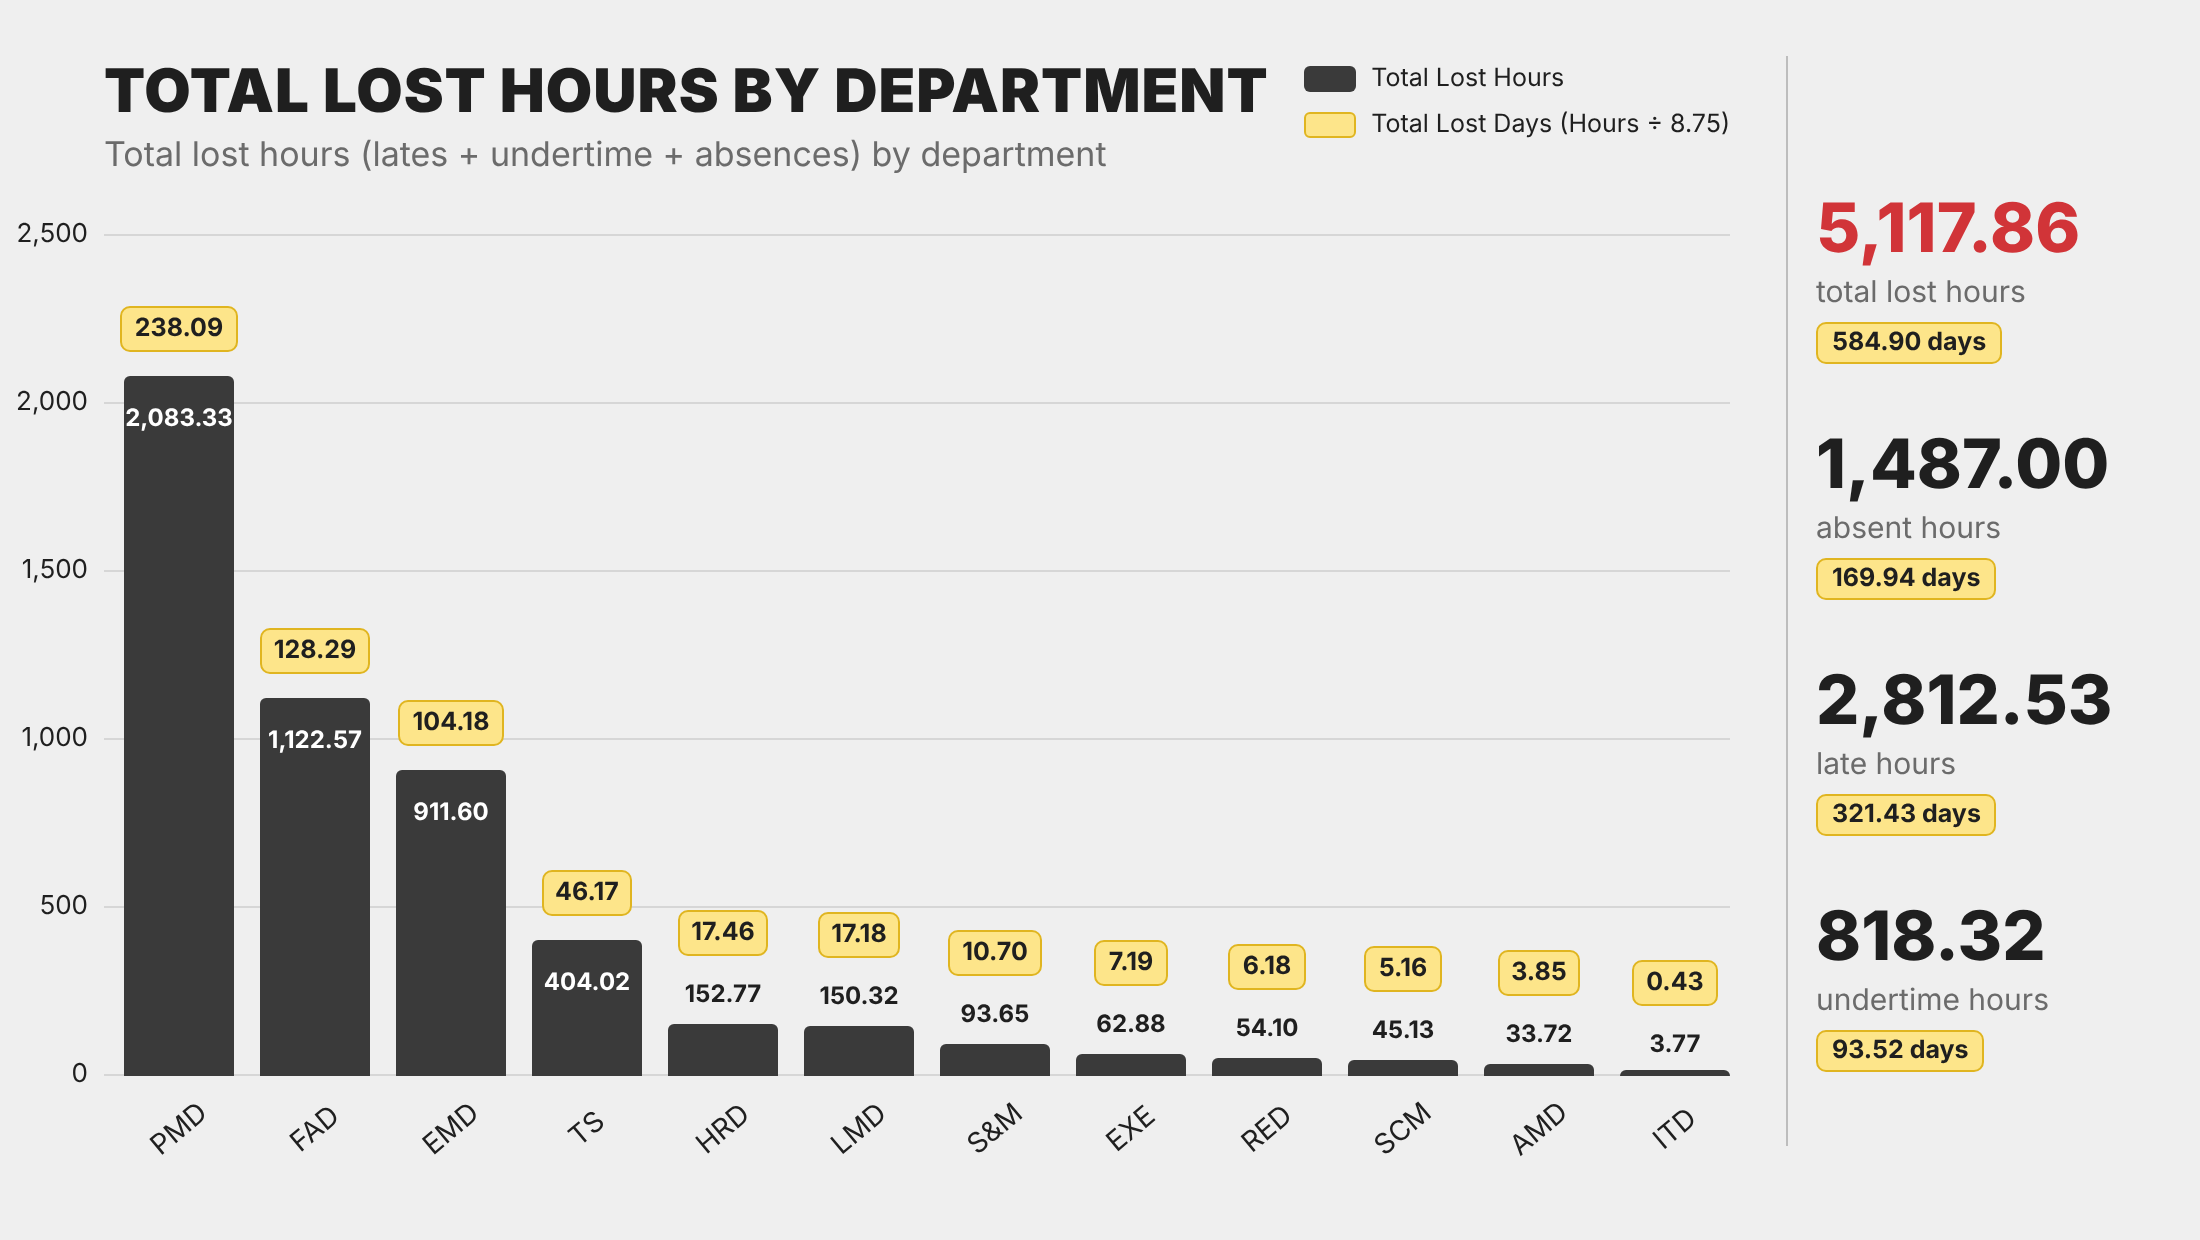
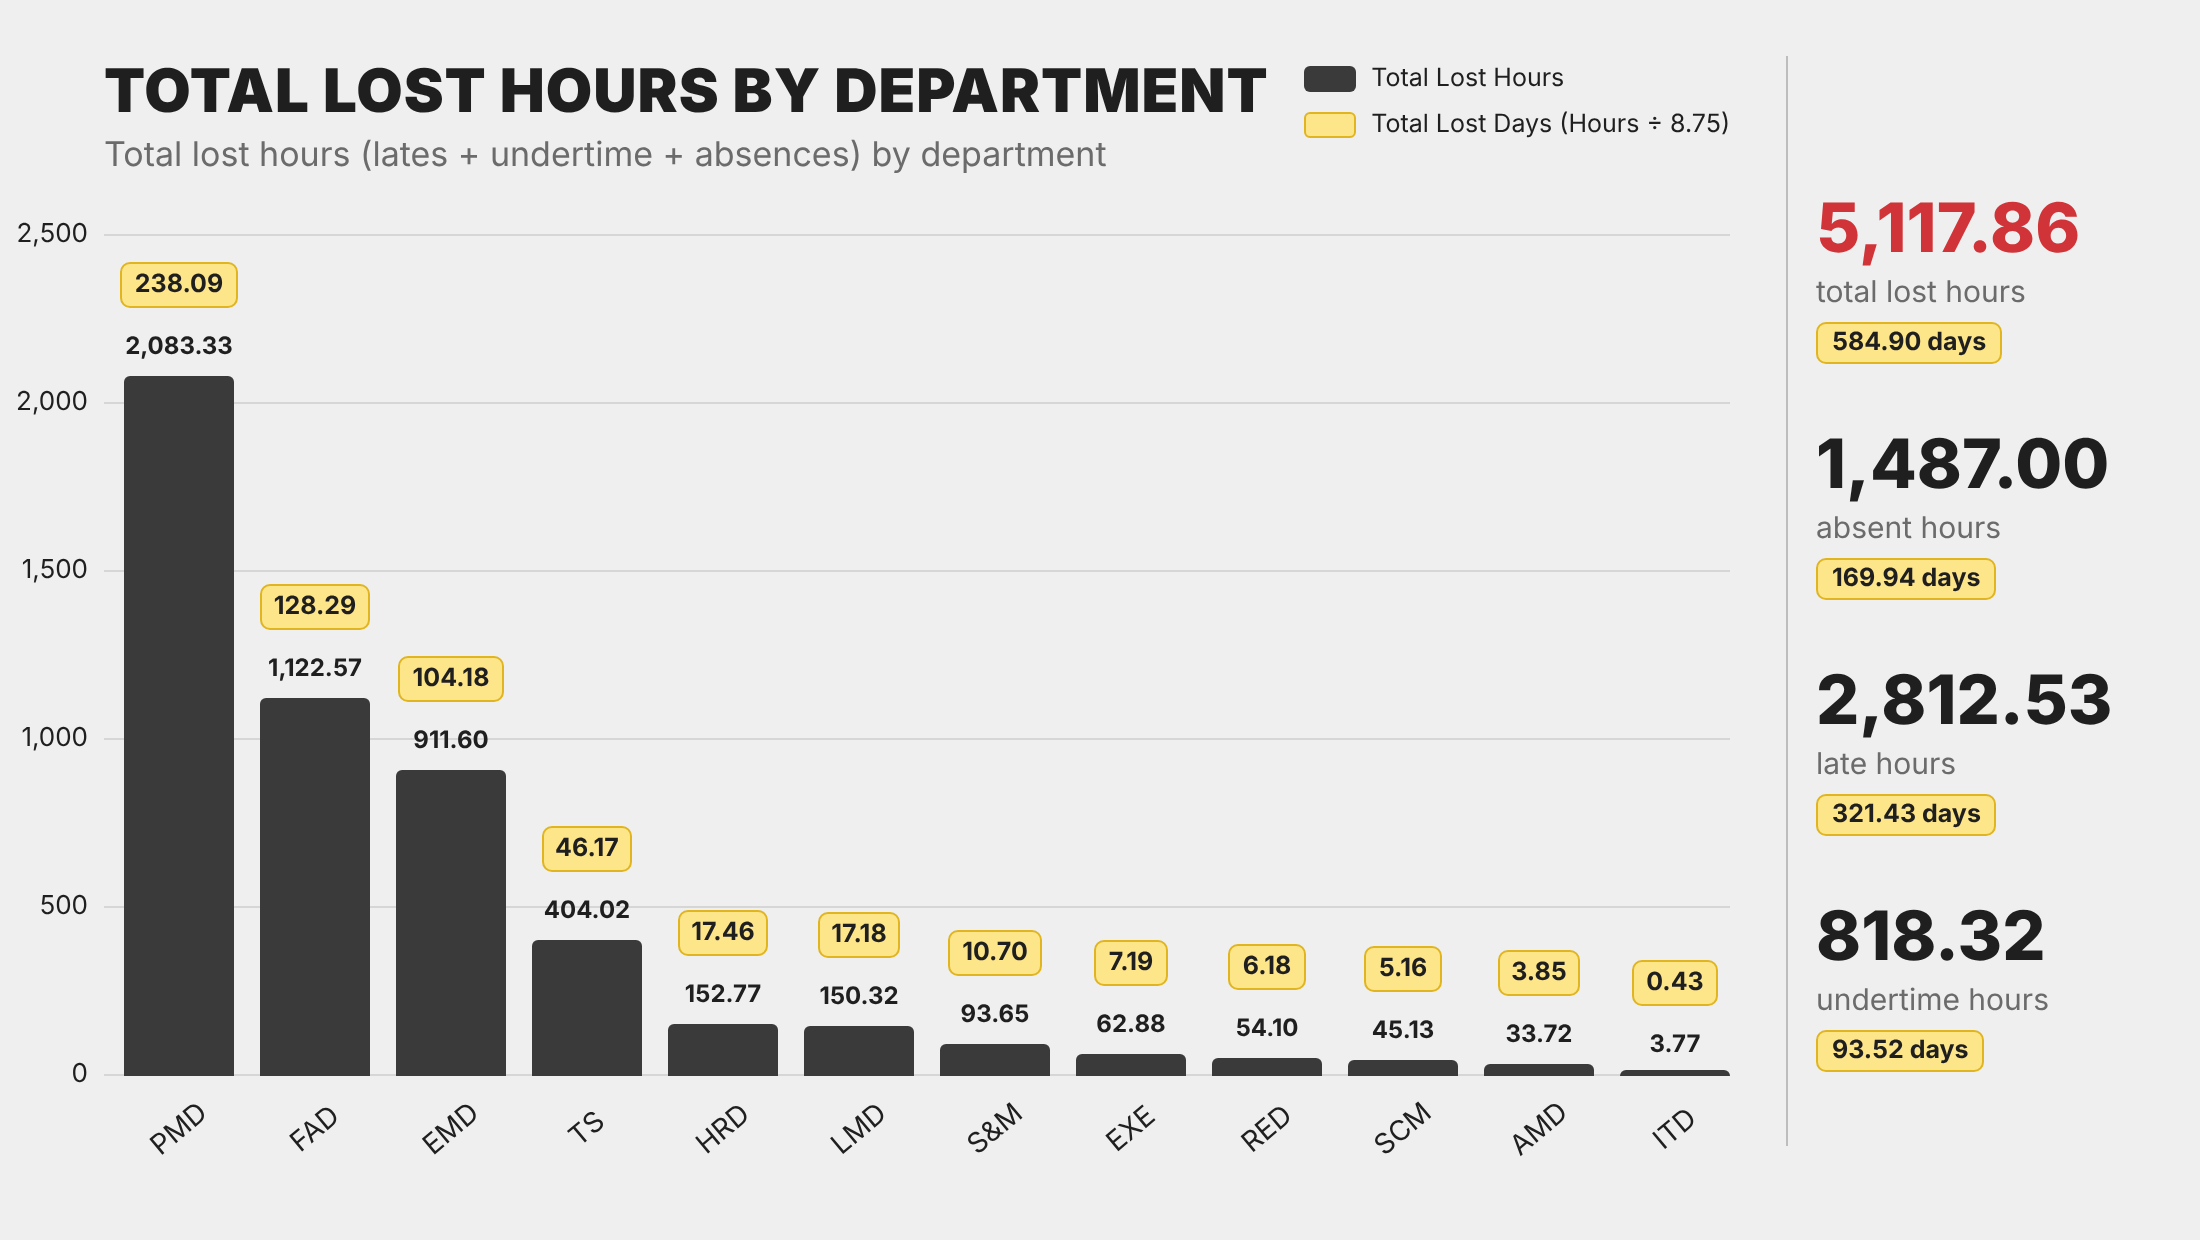
Show all hour labels in black above the bars, under the day labels
Claude-Session: https://claude.ai/code/session_015Kv3omTsNtVasEH23pCyJK

diff --git a/lost-hours-by-department.html b/lost-hours-by-department.html
@@ -88,7 +88,7 @@
   }
   const bars = document.getElementById("bars"), xl = document.getElementById("xl");
   data.forEach(([d,h]) => {
-    const pct = h / MAX * 100, inside = pct > 12;
+    const pct = h / MAX * 100, inside = false; // hour labels always sit above the bar, in black, under the yellow day label
     bars.insertAdjacentHTML("beforeend", `<div class="col">
       <div class="dv" style="bottom:calc(${pct}% + ${inside ? 12 : 34}px)">${days(h)}</div>
       <span class="hv ${inside ? "" : "out"}" style="bottom:calc(${pct}% ${inside ? "- 28px" : "+ 8px"})">${fmt(h)}</span>
